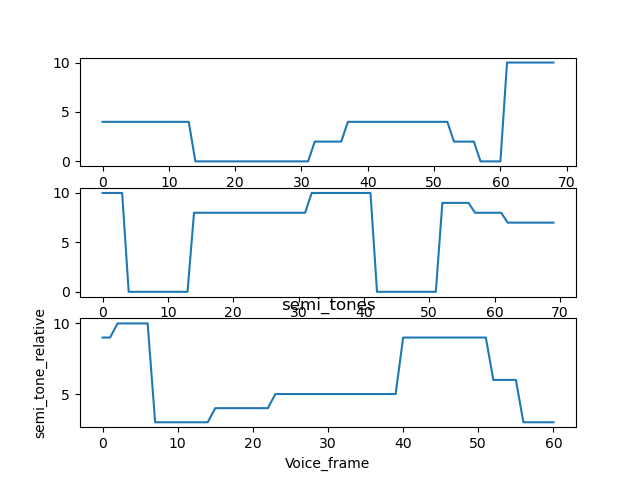
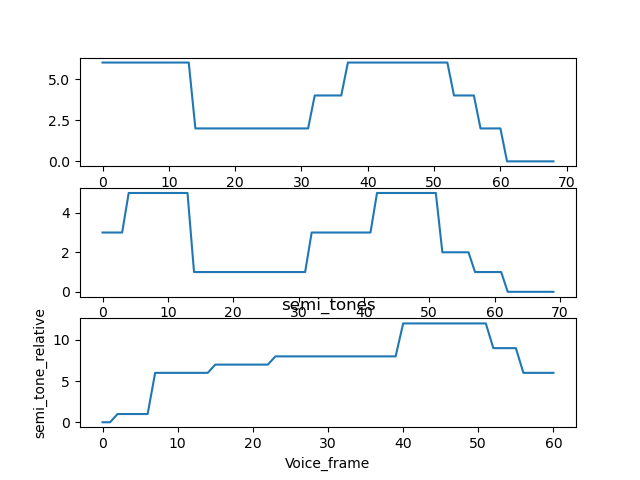
.

diff --git a/assignment2/main.py b/assignment2/main.py
@@ -2,7 +2,7 @@ from matplotlib import pyplot as plt
 import numpy as np
 from scipy.io import wavfile
 import GetMusicFeatures
-from Feature_Extractor import normalized_intensity, filter_pitch, semi_melody
+from Feature_Extractor import normalized_intensity, filter_pitch, semi_adjust
 import os
 import simpleaudio as sa
 import wave
@@ -240,12 +240,13 @@ plt.show()
 #
 # analysis the semitones of melody1
 
-octave1, semi_tone_relative1, semi_tone_absolute1, note1 = semi_melody(filter_pitch1)
-octave2, semi_tone_relative2, semi_tone_absolute2, note2 = semi_melody(filter_pitch2)
-octave3, semi_tone_relative3, semi_tone_absolute3, note3 = semi_melody(filter_pitch3)
+semi_tone_absolute1, semi_drag1 = semi_adjust(filter_pitch1)
+semi_tone_absolute2, semi_drag2 = semi_adjust(filter_pitch2)
+semi_tone_absolute3, semi_drag3 = semi_adjust(filter_pitch3)
 
+print(semi_drag1,'semitone1')
+print(semi_drag2,'semitone1')
 
-#
 plt.figure(8)
 plt.subplot(3, 1, 1)
 plt.plot(frequence1_temp, semi_tone_absolute1)
@@ -262,13 +263,50 @@ plt.show()
 
 plt.figure(9)
 plt.subplot(3, 1, 1)
-plt.plot(frequence1_temp, semi_tone_relative1)
+plt.plot(frequence1_temp, semi_drag1)
 plt.subplot(3, 1, 2)
-plt.plot(frequence2_temp, semi_tone_relative2)
+plt.plot(frequence2_temp, semi_drag2)
 plt.subplot(3, 1, 3)
-plt.plot(frequence3_temp, semi_tone_relative3)
+plt.plot(frequence3_temp, semi_drag3)
 plt.xlabel('Voice_frame')
 plt.ylabel('semi_tone_relative')
 plt.title('semi_tones')
-plt.savefig('figures/semitones_relative.png')
+plt.savefig('figures/semitones_drag.png')
+plt.show()
+
+# finally feature -> semitones_drag!!!! discrete feature
+frIsequence1 = GetMusicFeatures.GetMusicFeatures(data1, sample_rate1)
+filter_pitch1, _ = filter_pitch(frIsequence1)
+_, semi_drag1 = semi_adjust(filter_pitch1)
+
+# test if transposition invariant
+frIsequence1_trans = np.copy(frIsequence1)
+for i in range(0, frame_num1):
+    frIsequence1_trans[0,i] = 1.5 * frIsequence1[0,i]
+filter_pitch1_trans, _ = filter_pitch(frIsequence1_trans)
+_, semi_drag1_trans = semi_adjust(filter_pitch1_trans)
+print(semi_drag1_trans,'trans semi')
+
+# test if volume invariant
+frIsequence1_vol = GetMusicFeatures.GetMusicFeatures(2 * data1, sample_rate1)
+filter_pitch1_vol, _ = filter_pitch(frIsequence1_vol)
+_, semi_drag1_vol = semi_adjust(filter_pitch1_vol)
+
+# test if octave invariant
+frIsequence1_octave = np.copy(frIsequence1)
+random_numbers = np.random.randint(0, frame_num1, size=5)
+print(random_numbers)       # randomly choose 10 frames to octave jump (2 octaves, *4)
+for i in range(len(random_numbers)):
+    frIsequence1_octave[0, random_numbers[i]] = 4 * frIsequence1[0, random_numbers[i]]
+filter_pitch1_octave, _ = filter_pitch(frIsequence1_octave)
+_, semi_drag1_octave = semi_adjust(filter_pitch1_octave)
+
+plt.figure(10)
+plt.plot(frequence1_temp, semi_drag1)
+plt.plot(frequence1_temp, semi_drag1_octave)
+plt.plot(frequence1_temp, semi_drag1_trans)
+
+# plt.subplot(3,1,3)
+# plt.plot(frequence1_temp, semi_drag1_vol)
+plt.savefig('figures/variation.png')
 plt.show()

diff --git a/assignment2/Feature_Extractor.py b/assignment2/Feature_Extractor.py
@@ -14,12 +14,12 @@ def median_nonzero(input_list):
         if num != 0:
             sublist.append(num)
         elif sublist:
-            templist = [statistics.median(sublist)] * int(len(sublist)*100/len(input_list))
+            templist = [statistics.median(sublist)] * len(sublist)
             sublists.append(templist)
             sublist = []
 
     if sublist:
-        templist_last = [statistics.median(sublist)] * int(len(sublist)*100/len(input_list))
+        templist_last = [statistics.median(sublist)] * len(sublist)
         sublists.append(templist_last)
 
     sublists = [elem for row in sublists for elem in row]
@@ -132,7 +132,7 @@ def analysis_note(test_tone):
     return octave, semi_tone_relative, semitone_absolute, note
 
 
-def semi_melody(filter_pitch):
+def semi_adjust(filter_pitch):
     semi_tone_relative = np.zeros(len(filter_pitch))
     semi_tone_absolute = np.zeros(len(filter_pitch))
     octave = np.zeros(len(filter_pitch))
@@ -142,16 +142,22 @@ def semi_melody(filter_pitch):
         if filter_pitch[i] != 0:
             octave[i], semi_tone_relative[i], semi_tone_absolute[i], _ = analysis_note(filter_pitch[i])
 
-    # drag all to C4
-
-
     # transpose invariant
-    # octave invariant
+    # relative interval should stay the same, all drag to C1
+    lowest = np.min(semi_tone_absolute)
+    semi_drag = semi_tone_absolute - lowest
 
-    return octave, semi_tone_relative, semi_tone_absolute, note
+    # octave invariant(suddenly one note change)
+    # how to define a sudden jump note
+    for i in range(len(semi_drag)):
+        if semi_drag[i] > 12:    # limitation, how to perceive octave jump? worth thinking
+            semi_drag[i] = semi_drag[i] % 12
+    return semi_tone_absolute, semi_drag
 
-# test_tone = 329.628
-# octave, semi_tone_relative, note = analysis_note(test_tone)
+
+
+
+
 
 
 

diff --git a/assignment2/try.py b/assignment2/try.py
@@ -1,4 +1,5 @@
 import statistics
+import numpy as np
 # list comprehension 优雅的算法
 input_list = [0, 0, 0, 1, 2, 3, 0, 0, 0, 0, 5, 8, 9, 0, 0, 0, 0, 2, 9, 8]
 
@@ -27,3 +28,12 @@ sublists = [elem for row in sublists for elem in row]
     # filter out the silence, and use the median value of non-zeros, make it a new list
 print(sublists)
 # filter out the silence, and use the median value
+
+# test
+semi_drag = np.array([1,1,1,5,5,5,9,9,9,9,9,10,10,10,25,2,2,2,6,6])
+
+for i in range(len(semi_drag)):
+    if semi_drag[i] > 12:  # limitation, how to perceive octave jump? worth thinking
+        semi_drag[i] = semi_drag[i] % 12
+
+print(semi_drag)
